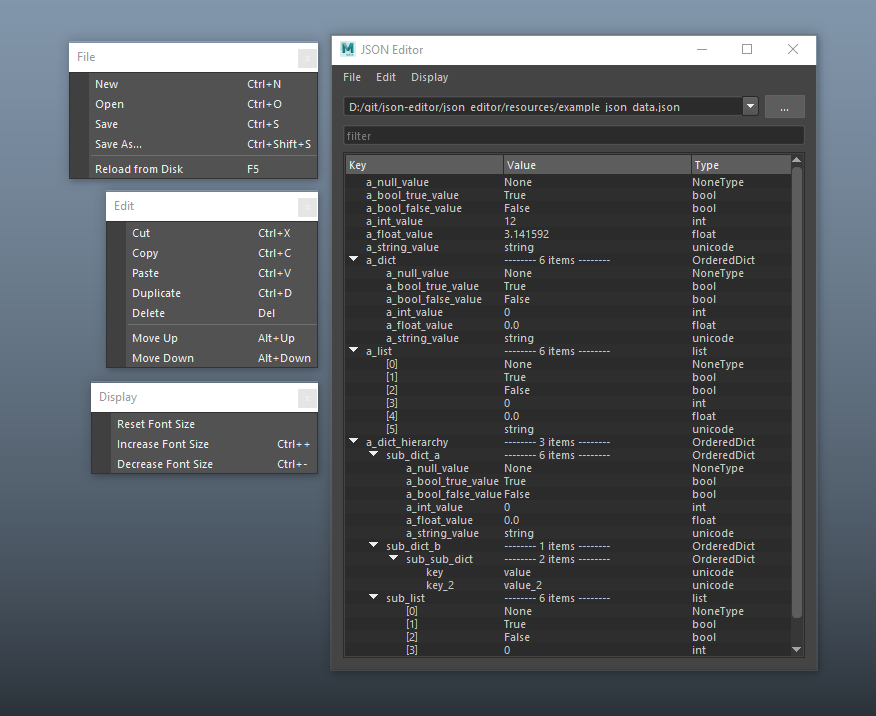
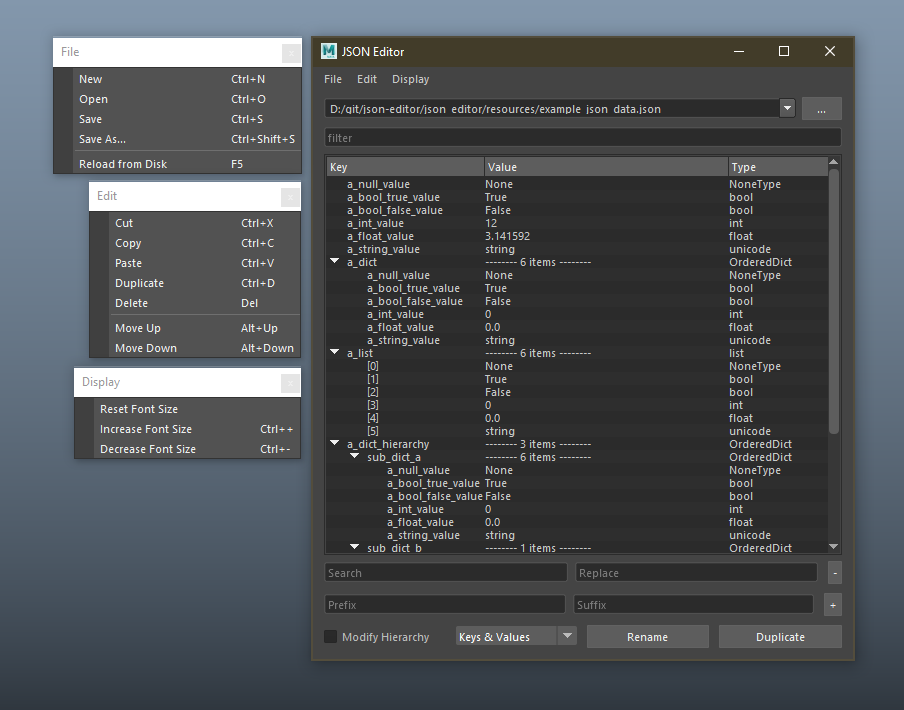
added batch string modify options

Changed region(s): [[0.0308, 0.031, 0.9555, 0.9296]]

diff --git a/json_editor/json_editor_ui.py b/json_editor/json_editor_ui.py
@@ -3,6 +3,7 @@ import json
 import sys
 import time
 
+from . import batch_name
 from . import data_tree
 from . import json_editor_system as system
 from . import ui_utils
@@ -14,6 +15,18 @@ if not QtWidgets.QApplication.instance():
     from .resources import stylesheets
 
     stylesheets.apply_standalone_stylesheet()
+
+
+class LocalConstants:
+
+    # modify options
+    keys = "Keys"
+    values = "Values"
+    keys_and_values = "Keys & Values"
+    batch_modify_options = [keys_and_values, keys, values]
+
+
+lk = LocalConstants
 
 
 class JsonEditorWidget(QtWidgets.QWidget):
@@ -38,7 +51,7 @@ class JsonEditorWidget(QtWidgets.QWidget):
         self.filter_widget.textEdited.connect(self.filter_data)
 
         self.data_tree_widget = data_tree.DataTreeWidget()
-        # self.batch_modify_widget = batch_name.BatchNameWidget()
+        self.batch_modify_widget = batch_name.BatchNameWidget()
         self.data_tree_widget.data_is_shown.connect(self.data_visibility_state_changed)
 
         self.helper_overlay = HelperMessageOverlay(self.data_tree_widget.tree_widget)
@@ -49,15 +62,15 @@ class JsonEditorWidget(QtWidgets.QWidget):
         ###########################################################
         # JSON editor specific ui
         self.modify_hierarchy = QtWidgets.QCheckBox("Modify Hierarchy")
-        self.modify_hierarchy.setChecked(True)
+        self.modify_hierarchy.setChecked(False)
         self.modify_type_chooser = QtWidgets.QComboBox()
-        self.modify_type_chooser.addItems(["Keys & Values", "Keys", "Values"])
+        self.modify_type_chooser.addItems(lk.batch_modify_options)
         self.modify_rename_button = QtWidgets.QPushButton("Rename")
         self.modify_duplicate_button = QtWidgets.QPushButton("Duplicate")
 
         # connect signals
-        # self.modify_rename_button.clicked.connect(self.modify_rename)
-        # self.modify_duplicate_button.clicked.connect(self.modify_duplicate)
+        self.modify_rename_button.clicked.connect(self.modify_rename)
+        self.modify_duplicate_button.clicked.connect(self.modify_duplicate)
 
         modify_layout = QtWidgets.QHBoxLayout()
         modify_layout.setContentsMargins(0, 0, 0, 0)
@@ -69,16 +82,81 @@ class JsonEditorWidget(QtWidgets.QWidget):
 
         self.main_layout.addWidget(self.path_widget)
         self.main_layout.addWidget(self.filter_widget)
-        # main_splitter = QtWidgets.QSplitter(QtCore.Qt.Vertical)
-        # main_splitter.addWidget(self.data_tree_widget)
-        # main_splitter.addWidget(self.batch_modify_widget)
-        # self.main_layout.addWidget(main_splitter)
         self.main_layout.addWidget(self.data_tree_widget)
-        # self.main_layout.addWidget(self.batch_modify_widget)
-        # self.main_layout.addLayout(modify_layout)
+        self.main_layout.addWidget(self.batch_modify_widget)
+        self.main_layout.addLayout(modify_layout)
         self.setLayout(self.main_layout)
 
         self.path_widget.path_changed.connect(self.load_json)
+
+    def modify_rename(self):
+        modify_keys = self.modify_type_chooser.currentText() in (lk.keys, lk.keys_and_values)
+        modify_values = self.modify_type_chooser.currentText() in (lk.values, lk.keys_and_values)
+
+        items_to_modify = self.data_tree_widget.get_selected_items()
+
+        if self.modify_hierarchy.isChecked():
+            item_descendants = []
+            for item in items_to_modify:
+                item_descendants.extend(data_tree.get_all_item_descendants(item))
+            items_to_modify.extend(item_descendants)
+
+        for item in items_to_modify:
+            if modify_keys:
+                item.setText(
+                    data_tree.lk.col_key,
+                    self.batch_modify_widget.modify_string(item.text(data_tree.lk.col_key))
+                )
+
+            if modify_values and not data_tree.item_supports_children(item):
+                item.setText(
+                    data_tree.lk.col_value,
+                    self.batch_modify_widget.modify_string(item.text(data_tree.lk.col_value))
+                )
+
+    def modify_duplicate(self):
+        modify_keys = self.modify_type_chooser.currentText() in (lk.keys, lk.keys_and_values)
+        modify_values = self.modify_type_chooser.currentText() in (lk.values, lk.keys_and_values)
+
+        for item in self.data_tree_widget.get_selected_items():
+            item_data = self.data_tree_widget.get_widget_item_values(item)
+            item_key = item.text(data_tree.lk.col_key)
+            if modify_keys:
+                item_key = self.batch_modify_widget.modify_string(item_key)
+
+            parent = item.parent() if item.parent() else self.data_tree_widget.tree_widget.invisibleRootItem()
+
+            new_item = self.data_tree_widget.add_data_to_widget(
+                data_key=item_key,
+                data_value=item_data,
+                parent_item=parent,
+                merge=not data_tree.item_supports_children(item),
+                key_safety=True
+            )
+
+            # insert next to the original
+            item_index = parent.indexOfChild(item)
+            parent.takeChild(parent.indexOfChild(new_item))
+            parent.insertChild(item_index + 1, new_item)
+
+            items_to_modify = [new_item]
+            if self.modify_hierarchy.isChecked():
+                items_to_modify.extend(data_tree.get_all_item_descendants(new_item))
+
+            for duped_item in items_to_modify:
+                if modify_keys and duped_item != new_item:  # key has already been modified, so can skip that on root
+                    duped_item.setText(
+                        data_tree.lk.col_key,
+                        self.batch_modify_widget.modify_string(duped_item.text(data_tree.lk.col_key))
+                    )
+
+                if modify_values and not data_tree.item_supports_children(duped_item):
+                    duped_item.setText(
+                        data_tree.lk.col_value,
+                        self.batch_modify_widget.modify_string(duped_item.text(data_tree.lk.col_value))
+                    )
+
+            data_tree.fix_list_indices(parent)
 
     def filter_data(self):
         filter_text = self.filter_widget.text()
@@ -308,6 +386,7 @@ class JsonEditorWindow(ui_utils.ToolWindow):
 def main(refresh=False):
     win = JsonEditorWindow()
     win.main(refresh=refresh)
+    win.resize(800, 800)
 
     if standalone_app:
         ui_utils.standalone_app_window = win

diff --git a/json_editor/data_tree.py b/json_editor/data_tree.py
@@ -311,10 +311,9 @@ class DataTreeWidget(QtWidgets.QWidget):
             if not merge:
                 parent_item = QtWidgets.QTreeWidgetItem(
                     parent_item,
-                    [data_key, "-------- {} items --------".format(len(data_value))]
+                    [data_key, "-------- {} items --------".format(len(data_value)), data_type_name],
                 )
                 parent_item.setFlags(parent_item.flags() | QtCore.Qt.ItemIsEditable)
-                parent_item.setData(lk.col_type, QtCore.Qt.DisplayRole, data_type_name)
                 return_item = parent_item
 
             for k, v in data_value.items():
@@ -327,14 +326,12 @@ class DataTreeWidget(QtWidgets.QWidget):
                 )
 
         elif isinstance(data_value, lk.list_types):
-
             if not merge:
                 parent_item = QtWidgets.QTreeWidgetItem(
                     parent_item,
-                    [data_key, "-------- {} items --------".format(len(data_value))]
+                    [data_key, "-------- {} items --------".format(len(data_value)), data_type_name],
                 )
                 parent_item.setFlags(parent_item.flags() | QtCore.Qt.ItemIsEditable)
-                parent_item.setData(lk.col_type, QtCore.Qt.DisplayRole, data_type_name)
                 return_item = parent_item
 
             for i, v in enumerate(data_value):
@@ -346,9 +343,8 @@ class DataTreeWidget(QtWidgets.QWidget):
                     key_safety=key_safety,
                 )
         else:
-            widget_item = QtWidgets.QTreeWidgetItem(parent_item, [data_key, str(data_value)])
+            widget_item = QtWidgets.QTreeWidgetItem(parent_item, [data_key, str(data_value), data_type_name])
             # widget_item.setData(lk.col_value, QtCore.Qt.DisplayRole, data_value)
-            widget_item.setData(lk.col_type, QtCore.Qt.DisplayRole, str(data_type_name))
             widget_item.setFlags(widget_item.flags() | QtCore.Qt.ItemIsEditable)
             return_item = widget_item
 
@@ -407,6 +403,21 @@ class DataTreeWidget(QtWidgets.QWidget):
 
 def get_sub_widgets(tree_widget_item):
     return [tree_widget_item.child(i) for i in range(tree_widget_item.childCount())]
+
+
+def get_all_item_descendants(tree_widget_item, item_list=None):
+    if item_list is None:
+        item_list = []
+
+    item_children = get_sub_widgets(tree_widget_item)
+
+    # This list is recursively extended. So mutability comes into play here.
+    item_list.extend(item_children)
+
+    for item_child in item_children:
+        get_all_item_descendants(item_child, item_list)
+
+    return item_list
 
 
 def get_data_as_correct_type(tree_widget_item):
